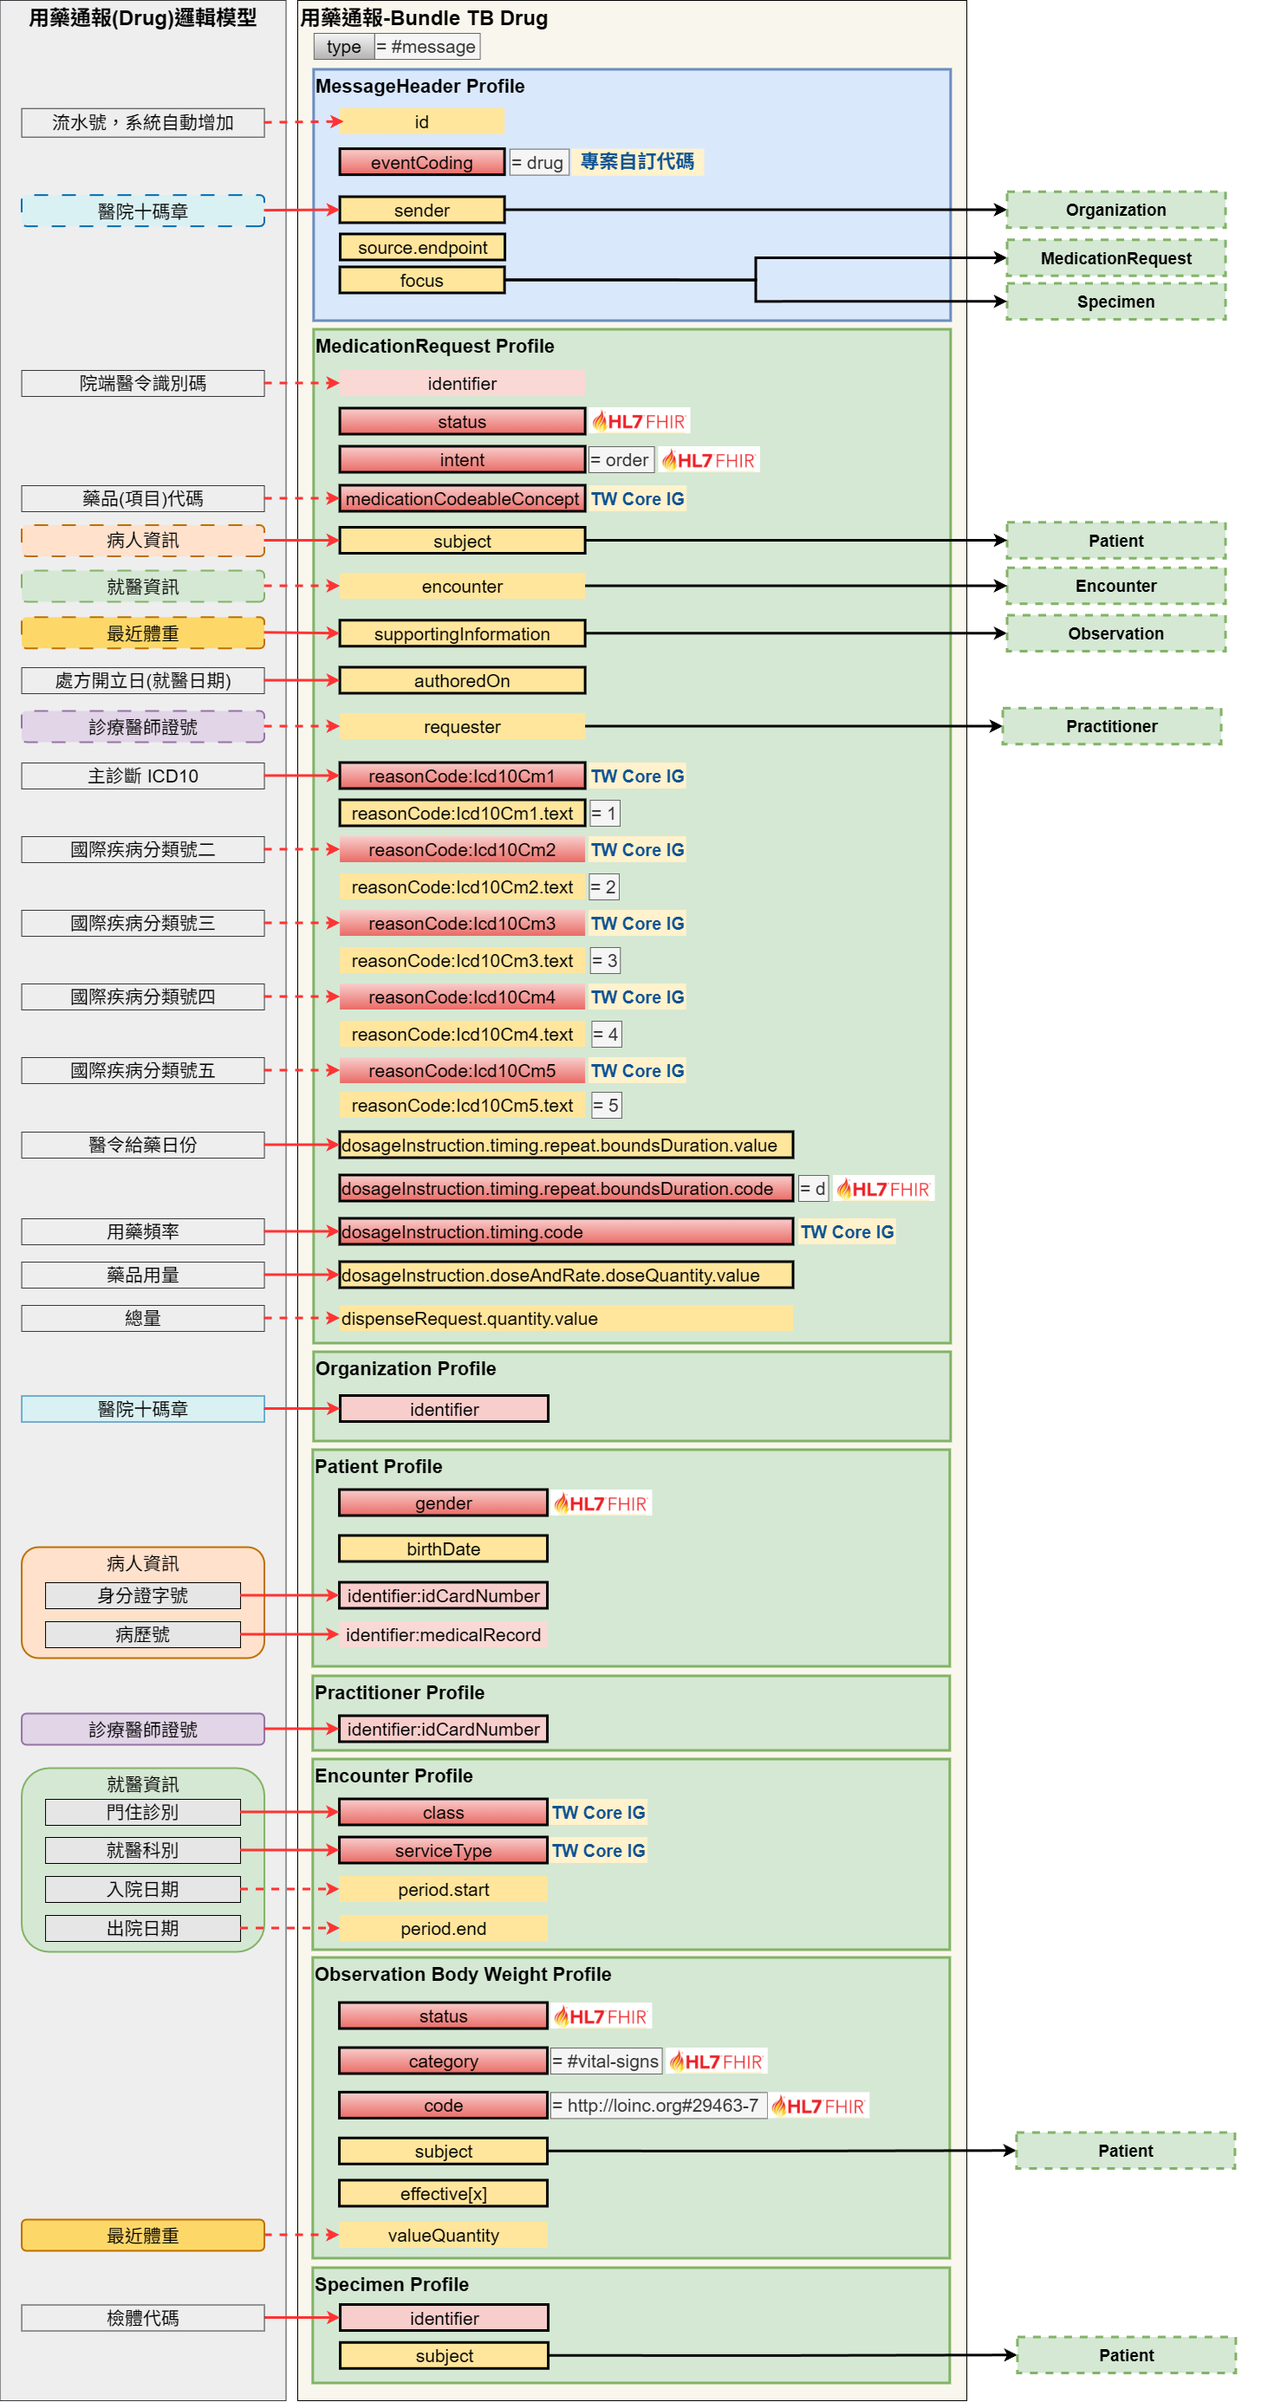
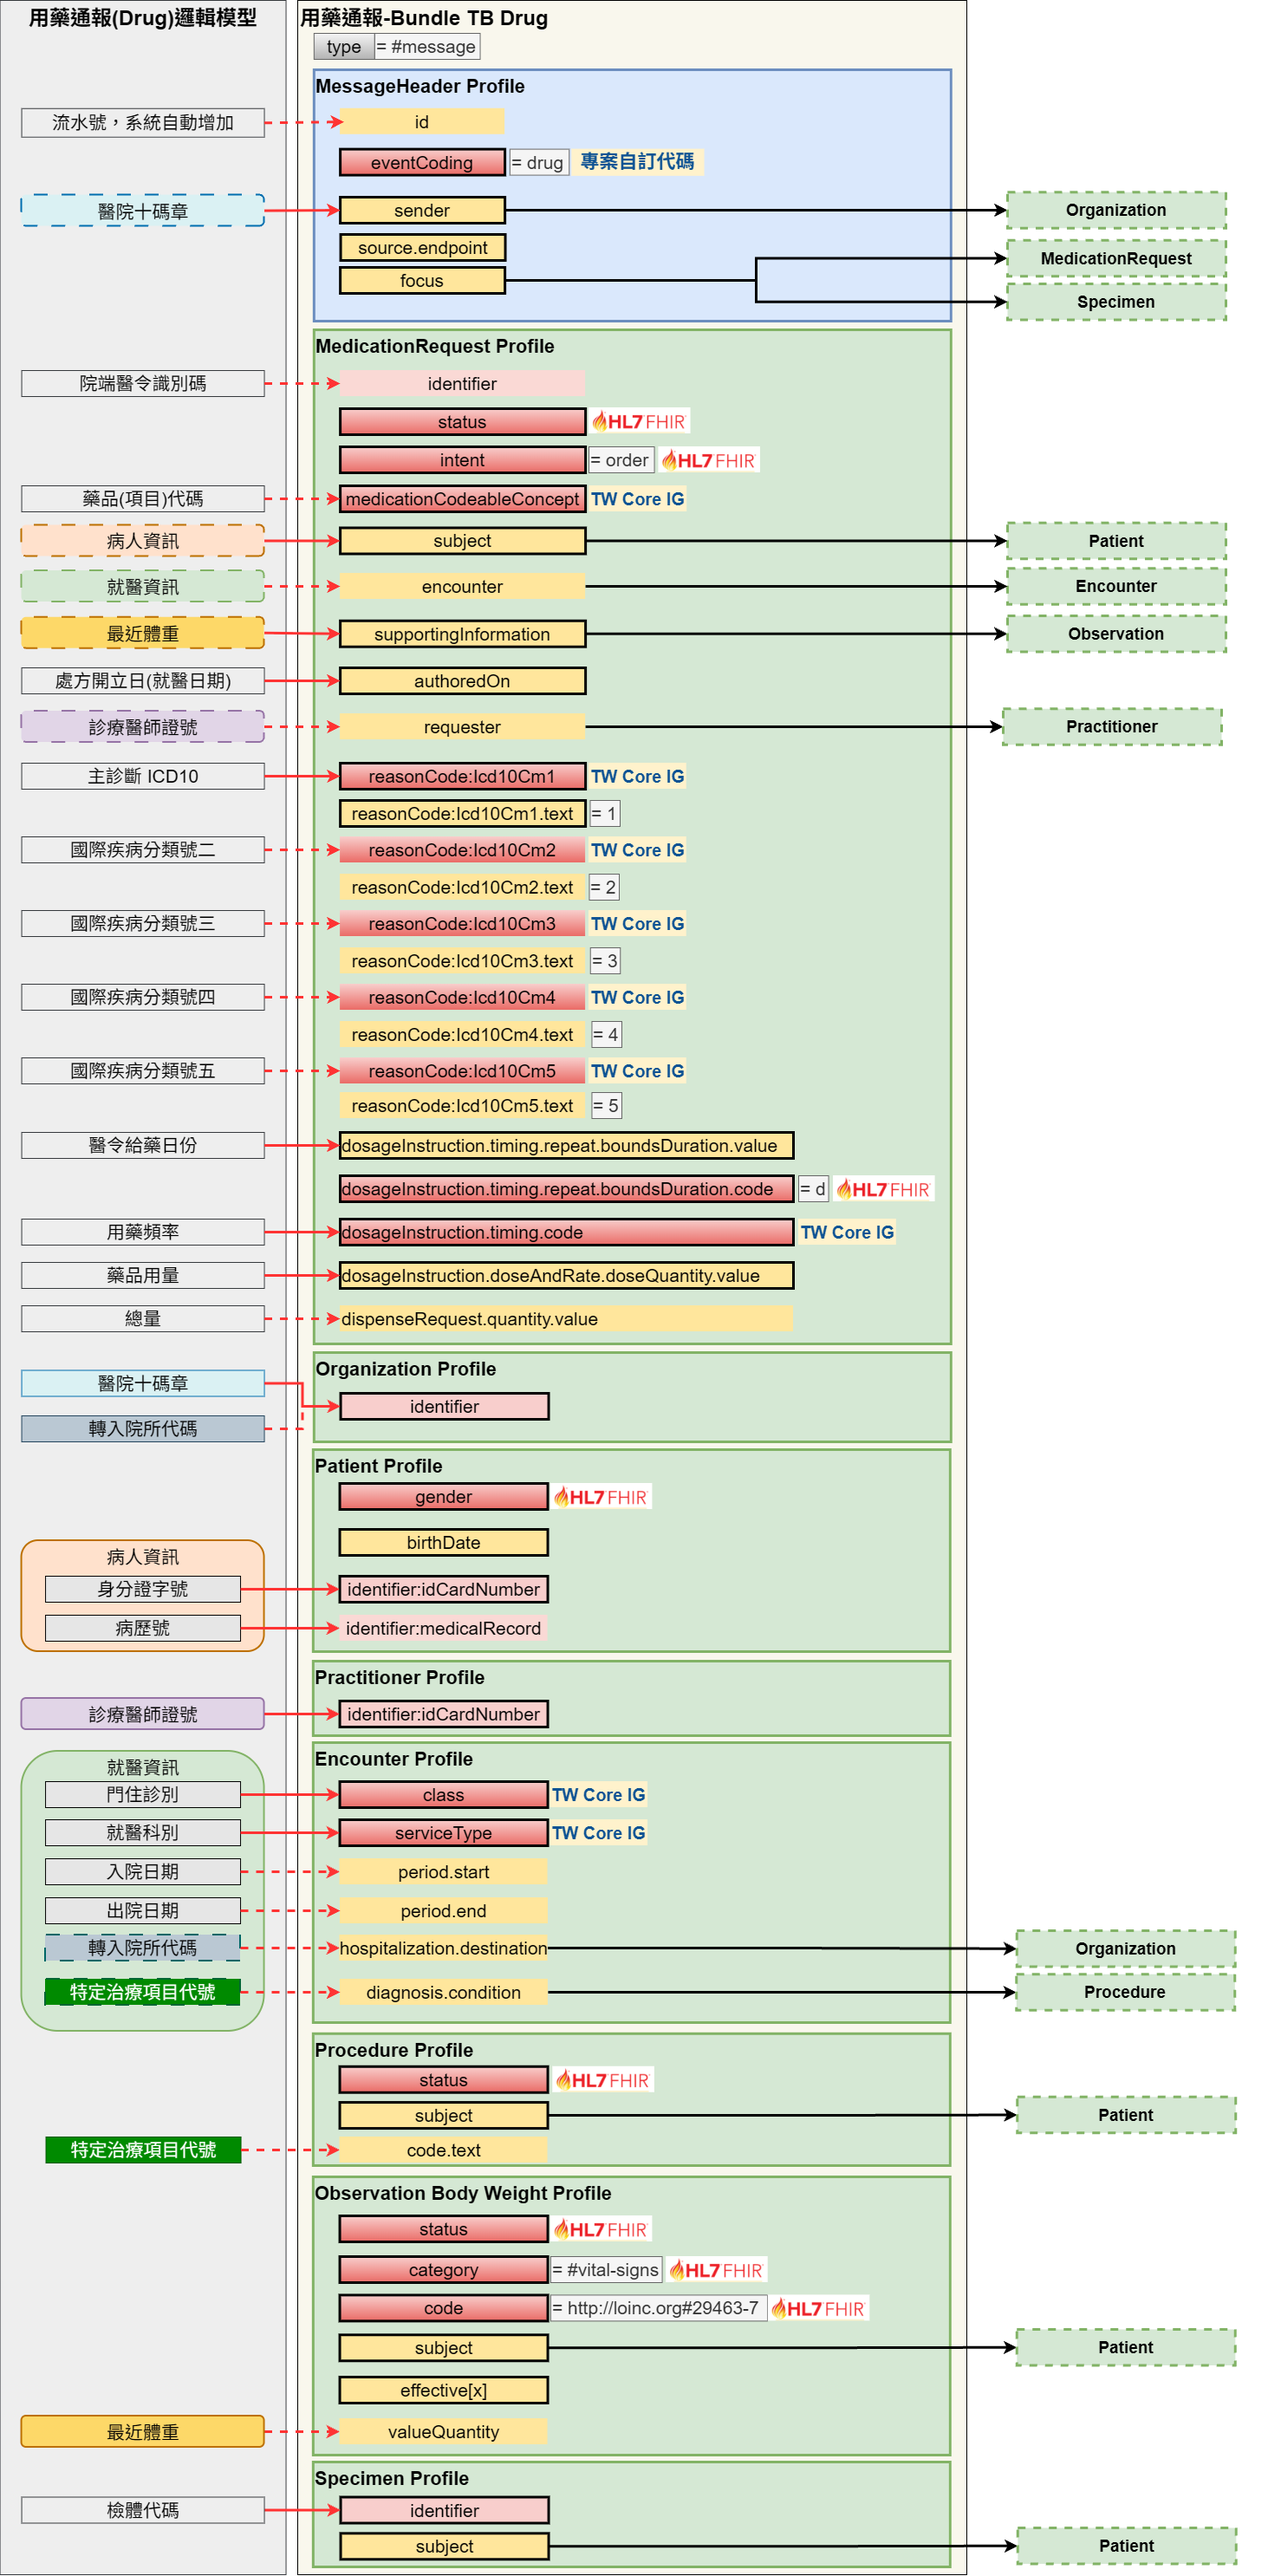
1028

diff --git a/input/pagecontent/vision-drug.md b/input/pagecontent/vision-drug.md
@@ -8,6 +8,7 @@ TB用藥通報透過Bundle打包以下資料(相關對應表可以參照TB用藥
   <li><a href="StructureDefinition-Patient-tb.html">病人資訊-Patient TB</a></li>
   <li><a href="StructureDefinition-Practitioner-tb.html">醫師-Practitioner TB</a></li>
   <li><a href="StructureDefinition-Encounter-tb-drug.html">就醫資訊-Encounter TB Drug</a></li>
+  <li><a href="StructureDefinition-Procedure-tb-drug.html">特定治療項目-Procedure TB Drug</a></li>
   <li><a href="https://twcore.mohw.gov.tw/ig/twcore/0.3.2/StructureDefinition-Observation-body-weight-twcore.html">臺灣核心-體重（TW Core Observation Body Weight）</a></li>
   <li><a href="StructureDefinition-Specimen-tb-drug.html">用藥通報檢體-Specimen TB Drug</a></li>
 </ul>
@@ -20,22 +21,6 @@ TB用藥通報透過Bundle打包以下資料(相關對應表可以參照TB用藥
 
 <br>
 
-### TB用藥通報回覆之Bundle架構(Bundle Response)
-<!-- <div  style="padding-left: 10px;"> 
-透過查詢參數搜尋TB用藥通報狀態時，若操作語法有誤且執行失敗，將透過<a href="StructureDefinition-Operationoutcome-twpas.html">系統回應訊息-OperationOutcome TWPAS</a>回應錯誤訊息；  
-若操作語法正確且執行成功，將透過<a href="StructureDefinition-Bundle-response-twpas.html">事前審查回覆-Bundle Response TWPAS</a>打包以下資料：
-<ul>
-	<li>事前審查結果-ClaimResponse TWPAS</li>
-</ul>
-</div> -->
-
-
-#### Bundle架構圖
-<div  style="padding-left: 10px;"> 
-<!-- <img class="figure-img img-responsive img-rounded center-block" src="response.png" alt="Bundle_Response架構圖" style="display: block;margin-left: auto;margin-right: auto;width: 80%;"/> -->
-</div>
-
-<br>
 
 ### 圖例說明圖
 <div  style="padding-left: 10px;"> 

diff --git a/input/pagecontent/security.md b/input/pagecontent/security.md
@@ -9,6 +9,6 @@
 ### 本專案安全一致性要求如下
 - 系統**建議應該（SHOULD）** 保留各種交易的稽核日誌(audit logs)
 - 系統**建議應該（SHOULD）** 符合[FHIR通訊安全（Communications Security）](http://hl7.org/fhir/R4/security.html#http)要求
-- 對於認證和授權，系統**建議應該（SHOULD）** 支援用於用戶端<-->伺服器互動的[SMART App執行框架（launch framework）](http://www.hl7.org/fhir/smart-app-launch/history.cfml)。注意：FHIR上的SMART規範包括啟用安全決策所需的OAuth 2.0範圍。
+- 對於認證和授權，系統**建議應該（SHOULD）** 支援用於用戶端<-->伺服器互動的[SMART App執行框架（launch framework）](http://hl7.org/fhir/smart-app-launch/)。注意：FHIR上的SMART規範包括啟用安全決策所需的OAuth 2.0範圍。
 - 系統**建議應該（SHOULD）** 依據國家、地方和機構政策實作同意要求。業務夥伴協定(Business Associate Agreements)**建議應該（SHOULD）** 記錄系統相互同意的要求。
 - 系統**可以（MAY）** 透過加密和相關存取控制來保護資料的機密性。所使用的策略和方法不在此規範的範圍內。

diff --git a/input/pagecontent/examples.md b/input/pagecontent/examples.md
@@ -34,8 +34,6 @@
 #### Organization
 - [醫事機構](Organization-hosp.html)：依據醫事機構-Organization TB Profile呈現醫事機構之範例
 
-#### OperationOutcome
-
 
 ---
 
@@ -62,13 +60,15 @@
 #### Encounter
 - [就醫資訊](Encounter-enc-drug.html)：依據就醫資訊-Encounter TB Drug Profile呈現用藥通報之就醫資訊範例
 
+#### Procedure
+- [特定治療項目(一)](Procedure-pro-drug-1.html)：依據特定治療項目-Procedure TB Drug Profile呈現用藥通報之特定治療項目範例
+- [特定治療項目(二)](Procedure-pro-drug-2.html)：依據特定治療項目-Procedure TB Drug Profile呈現用藥通報之特定治療項目範例
+
 #### Observation
 - [最近體重](Observation-weight.html)：依據臺灣核心-體重（TW Core Observation Body Weight） Profile呈現病人最近體重之範例
 
 #### Specimen
 - [檢體](Specimen-spe-min.html)：依據用藥通報檢體-Specimen TB Drug Profile呈現用藥通報檢體之範例
-
-#### OperationOutcome
 
 
 ---
@@ -98,5 +98,3 @@
 
 #### Observation
 - [生化檢查](Observation-obs-check.html)：依據生化檢查-Observation Check Profile呈現生化檢查之範例
-
-#### OperationOutcome

diff --git a/input/pagecontent/vision-reporting.md b/input/pagecontent/vision-reporting.md
@@ -29,23 +29,6 @@ TB檢驗通報透過Bundle打包以下資料(相關對應表可以參照TB檢驗
 
 <br>
 
-### TB檢驗通報回覆之Bundle架構(Bundle Response)
-<!-- <div  style="padding-left: 10px;"> 
-透過查詢參數搜尋TB檢驗通報狀態時，若操作語法有誤且執行失敗，將透過<a href="StructureDefinition-Operationoutcome-twpas.html">系統回應訊息-OperationOutcome TWPAS</a>回應錯誤訊息；  
-若操作語法正確且執行成功，將透過<a href="StructureDefinition-Bundle-response-twpas.html">事前審查回覆-Bundle Response TWPAS</a>打包以下資料：
-<ul>
-	<li>事前審查結果-ClaimResponse TWPAS</li>
-</ul>
-</div> -->
-
-
-#### Bundle架構圖
-<div  style="padding-left: 10px;"> 
-<!-- <img class="figure-img img-responsive img-rounded center-block" src="response.png" alt="Bundle_Response架構圖" style="display: block;margin-left: auto;margin-right: auto;width: 80%;"/> -->
-</div>
-
-<br>
-
 ### 圖例說明圖
 <div  style="padding-left: 10px;"> 
 <img class="figure-img img-responsive img-rounded center-block" src="legend.png" alt="圖例說明" style="display: block;margin-left: auto;margin-right: auto;width: 90%;"/>

diff --git a/input/pagecontent/profiles.md b/input/pagecontent/profiles.md
@@ -35,7 +35,7 @@
 - [分生一線藥物報告-Observation Genotype](StructureDefinition-Observation-genotype.html)
 - [分生二線藥物報告-Observation Moleculex](StructureDefinition-Observation-moleculex.html)
 
-#### OperationOutcome
+
 
 ---
 
@@ -62,16 +62,15 @@
 #### Encounter
 - [就醫資訊-Encounter TB Drug](StructureDefinition-Encounter-tb-drug.html)
 
+#### Procedure
+- [特定治療項目-Procedure TB Drug](StructureDefinition-Procedure-tb-drug.html)
+
 #### Observation
 - [臺灣核心-體重（TW Core Observation Body Weight）](https://twcore.mohw.gov.tw/ig/twcore/0.3.2/StructureDefinition-Observation-body-weight-twcore.html)
 
 #### Specimen
 - [用藥通報檢體-Specimen TB Drug](StructureDefinition-Specimen-tb-drug.html)
 
-<!-- #### Procedure
-- [臺灣核心-處置或手術（TW Core Procedure）](https://twcore.mohw.gov.tw/ig/twcore/0.3.2/StructureDefinition-Procedure-twcore.html) -->
-
-#### OperationOutcome
 
 ---
 
@@ -101,4 +100,3 @@
 #### Observation
 - [生化檢查-Observation TB Check](StructureDefinition-Observation-tb-check.html)
 
-#### OperationOutcome

diff --git a/input/pagecontent/vision-check.md b/input/pagecontent/vision-check.md
@@ -19,22 +19,6 @@ TB生化檢查通報透過Bundle打包以下資料(相關對應表可以參照TB
 
 <br>
 
-### TB生化檢查通報回覆之Bundle架構(Bundle Response)
-<!-- <div  style="padding-left: 10px;"> 
-透過查詢參數搜尋TB生化檢查通報狀態時，若操作語法有誤且執行失敗，將透過<a href="StructureDefinition-Operationoutcome-twpas.html">系統回應訊息-OperationOutcome TWPAS</a>回應錯誤訊息；  
-若操作語法正確且執行成功，將透過<a href="StructureDefinition-Bundle-response-twpas.html">事前審查回覆-Bundle Response TWPAS</a>打包以下資料：
-<ul>
-	<li>事前審查結果-ClaimResponse TWPAS</li>
-</ul>
-</div> -->
-
-
-#### Bundle架構圖
-<div  style="padding-left: 10px;"> 
-<!-- <img class="figure-img img-responsive img-rounded center-block" src="response.png" alt="Bundle_Response架構圖" style="display: block;margin-left: auto;margin-right: auto;width: 80%;"/> -->
-</div>
-
-<br>
 
 ### 圖例說明圖
 <div  style="padding-left: 10px;"> 

diff --git a/input/pagecontent/index.md b/input/pagecontent/index.md
@@ -32,7 +32,6 @@
 	<li><strong><a href="artifacts.html">規範文件</a></strong>
 	<ul>
 		<li><strong><a href="capabilitystatements.html">能力聲明</a></strong>：應用TWTB IG於建置業務目的使用的FHIR Server時，該FHIR Server必須及建議應該支援的資料存取功能。</li>
-		<li><strong><a href="searchparameters.html">查詢參數</a></strong>：查詢FHIR Server的Profiles時，針對各Profiles可使用的查詢參數。</li>
 		<li><strong><a href="models.html">邏輯模型</a>
 			</strong>：TWTB IG的所有邏輯模型(Logical Models)，邏輯模型會定義相應情境下使用的所有資料欄位。為了便於實作者快速理解，資料欄位會使用易於理解的命名，實作者再透過邏輯模型中的功能頁籤「Mappings」瞭解各資料欄位實際使用本IG的哪個Profiles的哪個資料項目(element)。
 		</li>

diff --git a/input/pagecontent/ImplementationGuide-tw.gov.mohw.cdc.tb.md b/input/pagecontent/ImplementationGuide-tw.gov.mohw.cdc.tb.md
@@ -14,21 +14,21 @@
 - [XML](ImplementationGuide-tw.gov.mohw.cdc.tb.xml)
 - [JSON](ImplementationGuide-tw.gov.mohw.cdc.tb.json)
 
-### Cross Version Analysis
+<p><strong>Cross Version Analysis</strong></p>
 
 {% capture cross-version-analysis %}{% include cross-version-analysis.xhtml %}{% endcapture %}{{ cross-version-analysis | remove: '<p>' | remove: '</p>'}}
 
-### IG Dependencies
+<p><strong>IG Dependencies</strong></p>
 
 This IG Contains the following dependencies on other IGs.
 
 {% include dependency-table.xhtml %}
 
-### Global Profiles
+<p><strong>Global Profiles</strong></p>
 
 {% include globals-table.xhtml %}
 
-### Copyrights
+<p><strong>Copyrights</strong></p>
 
 {% capture ip-statement %}{% include ip-statements.xhtml %}{% endcapture %}
 

diff --git a/input/pagecontent/models.md b/input/pagecontent/models.md
@@ -3,4 +3,3 @@
 <tr><td><a href="StructureDefinition-ReportingModel.html">TB檢驗通報(Reporting)之資料模型</a> </td><td><p>TB檢驗通報(Reporting)之資料模型</p></td></tr>
 <tr><td><a href="StructureDefinition-DrugModel.html">TB用藥通報(Drug)之資料模型</a> </td><td><p>TB用藥通報(Drug)之資料模型</p></td></tr>
 <tr><td><a href="StructureDefinition-CheckModel.html">TB生化檢查通報(Check)之資料模型</a> </td><td><p>TB生化檢查通報(Check)之資料模型</p></td></tr>
-<tr><td><a href="StructureDefinition-ResponseModel.html">TB通報回應(Response)之資料模型</a> </td><td><p>TB通報回應(Response)之資料模型</p></td></tr>
